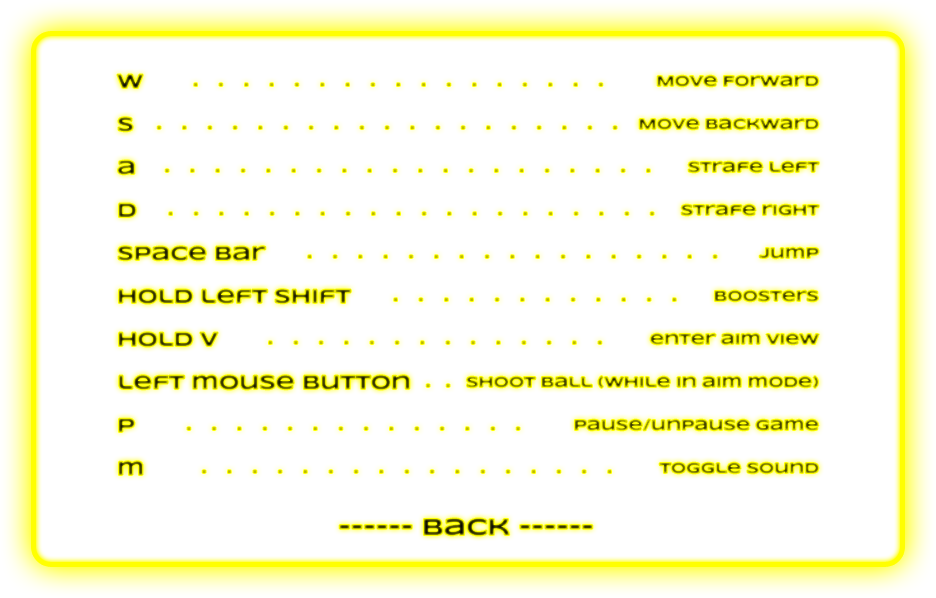
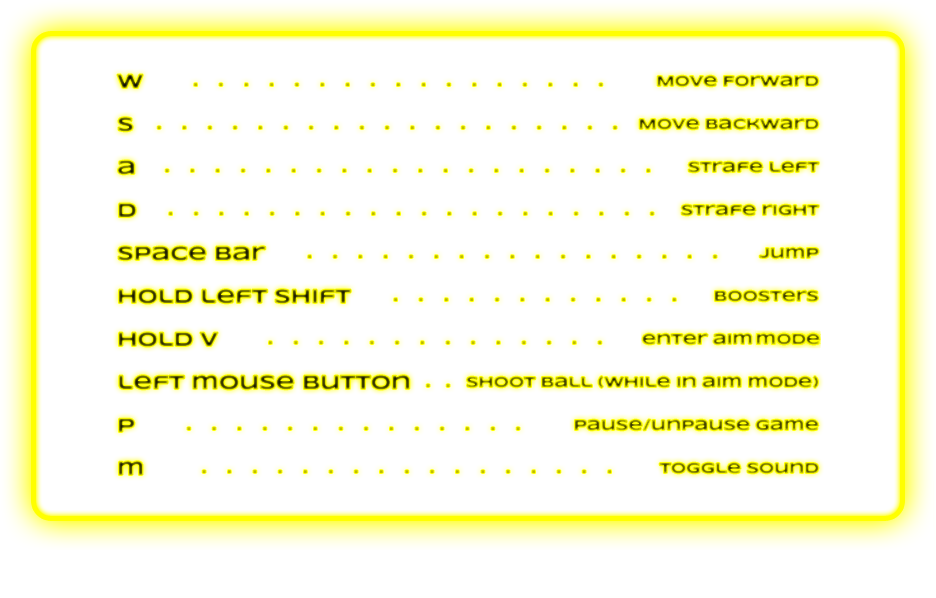
Resized images on menu to look better

Changed region(s): [[0.0, 0.8428, 0.9915, 0.9933], [0.6816, 0.5418, 0.8985, 0.602]]

diff --git a/GUI.cpp b/GUI.cpp
@@ -38,14 +38,14 @@ void GUI::createMainMenu()
     singlePlayerStartIMG->setProperty("Image", "set:SoloModeImageset image:full_image");
     singlePlayerStartIMG->setProperty("BackgroundEnabled", "false");
     singlePlayerStartIMG->setProperty("FrameEnabled", "false");
-    singlePlayerStartIMG->setSize(CEGUI::UVector2(CEGUI::UDim(0.15, 0), CEGUI::UDim(0.05, 0)));
-    singlePlayerStartIMG->setPosition(CEGUI::UVector2(CEGUI::UDim(0.2, 0), CEGUI::UDim(0.45, 0)));
+    singlePlayerStartIMG->setSize(CEGUI::UVector2(CEGUI::UDim(0.25, 0), CEGUI::UDim(0.08, 0)));
+    singlePlayerStartIMG->setPosition(CEGUI::UVector2(CEGUI::UDim(0.1, 0), CEGUI::UDim(0.47, 0)));
 
     CEGUI::Window *singlePlayerStart = wmgr.createWindow("OgreTray/Button", "TronGame/MainMenu/SinglePlayerStartButton");
     // singlePlayerStart->setText("Solo Mode");
     singlePlayerStart->setAlpha(0.1f);
-    singlePlayerStart->setSize(CEGUI::UVector2(CEGUI::UDim(0.15, 0), CEGUI::UDim(0.05, 0)));
-    singlePlayerStart->setPosition(CEGUI::UVector2(CEGUI::UDim(0.2, 0), CEGUI::UDim(0.45, 0)));
+    singlePlayerStart->setSize(CEGUI::UVector2(CEGUI::UDim(0.25, 0), CEGUI::UDim(0.08, 0)));
+    singlePlayerStart->setPosition(CEGUI::UVector2(CEGUI::UDim(0.1, 0), CEGUI::UDim(0.47, 0)));
     
     /* HOST GAME */
     CEGUI::ImagesetManager::getSingleton().createFromImageFile("HostGameImageset", "hostgamebutton.png");
@@ -53,14 +53,14 @@ void GUI::createMainMenu()
     hostIMG->setProperty("Image", "set:HostGameImageset image:full_image");
     hostIMG->setProperty("BackgroundEnabled", "false");
     hostIMG->setProperty("FrameEnabled", "false");
-    hostIMG->setSize(CEGUI::UVector2(CEGUI::UDim(0.15, 0), CEGUI::UDim(0.05, 0)));
-    hostIMG->setPosition(CEGUI::UVector2(CEGUI::UDim(0.2, 0), CEGUI::UDim(0.56, 0)));
+    hostIMG->setSize(CEGUI::UVector2(CEGUI::UDim(0.25, 0), CEGUI::UDim(0.08, 0)));
+    hostIMG->setPosition(CEGUI::UVector2(CEGUI::UDim(0.1, 0), CEGUI::UDim(0.59, 0)));
     
     CEGUI::Window *host = wmgr.createWindow("OgreTray/Button", "TronGame/MainMenu/HostButton");
     // host->setText("Host Game");
     host->setAlpha(0.1f);
-    host->setSize(CEGUI::UVector2(CEGUI::UDim(0.15, 0), CEGUI::UDim(0.05, 0)));
-    host->setPosition(CEGUI::UVector2(CEGUI::UDim(0.2, 0), CEGUI::UDim(0.56, 0)));
+    host->setSize(CEGUI::UVector2(CEGUI::UDim(0.25, 0), CEGUI::UDim(0.08, 0)));
+    host->setPosition(CEGUI::UVector2(CEGUI::UDim(0.1, 0), CEGUI::UDim(0.59, 0)));
 
     /* JOIN GAME */
     CEGUI::ImagesetManager::getSingleton().createFromImageFile("JoinGameImageset", "joingamebutton.png");
@@ -68,14 +68,14 @@ void GUI::createMainMenu()
     joinIMG->setProperty("Image", "set:JoinGameImageset image:full_image");
     joinIMG->setProperty("BackgroundEnabled", "false");
     joinIMG->setProperty("FrameEnabled", "false");
-    joinIMG->setSize(CEGUI::UVector2(CEGUI::UDim(0.15, 0), CEGUI::UDim(0.05, 0)));
-    joinIMG->setPosition(CEGUI::UVector2(CEGUI::UDim(0.2, 0), CEGUI::UDim(0.67, 0)));
+    joinIMG->setSize(CEGUI::UVector2(CEGUI::UDim(0.25, 0), CEGUI::UDim(0.08, 0)));
+    joinIMG->setPosition(CEGUI::UVector2(CEGUI::UDim(0.1, 0), CEGUI::UDim(0.71, 0)));
     
     CEGUI::Window *join = wmgr.createWindow("OgreTray/Button", "TronGame/MainMenu/JoinButton");
     // join->setText("Join a game");
     join->setAlpha(0.1f);
-    join->setSize(CEGUI::UVector2(CEGUI::UDim(0.15, 0), CEGUI::UDim(0.05, 0)));
-    join->setPosition(CEGUI::UVector2(CEGUI::UDim(0.2, 0), CEGUI::UDim(0.67, 0)));
+    join->setSize(CEGUI::UVector2(CEGUI::UDim(0.25, 0), CEGUI::UDim(0.08, 0)));
+    join->setPosition(CEGUI::UVector2(CEGUI::UDim(0.1, 0), CEGUI::UDim(0.71, 0)));
     
     CEGUI::ImagesetManager::getSingleton().createFromImageFile("TitleImageset", "title.png");
     CEGUI::Window *title = wmgr.createWindow("OgreTray/StaticImage", "TronGame/MainMenu/TitleImage");
@@ -90,8 +90,8 @@ void GUI::createMainMenu()
     instructions->setProperty("Image", "set:InstructionsImageset image:full_image");
     instructions->setProperty("BackgroundEnabled", "false");
     instructions->setProperty("FrameEnabled", "false");
-    instructions->setSize(CEGUI::UVector2(CEGUI::UDim(0.4, 0), CEGUI::UDim(0.5, 0)));
-    instructions->setPosition(CEGUI::UVector2(CEGUI::UDim(0.6, 0), CEGUI::UDim(0.35, 0)));
+    instructions->setSize(CEGUI::UVector2(CEGUI::UDim(0.6, 0), CEGUI::UDim(0.6, 0)));
+    instructions->setPosition(CEGUI::UVector2(CEGUI::UDim(0.4, 0), CEGUI::UDim(0.38, 0)));
     
     sheet->addChildWindow(quit);
     sheet->addChildWindow(singlePlayerStartIMG);
